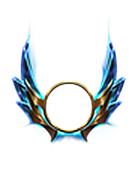
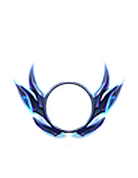
opgg, hotstreak

Changed region(s): [[0.087, 0.1685, 0.9275, 0.8146], [0.1739, 0.7022, 0.2029, 0.7303]]

diff --git a/Beta_App.py b/Beta_App.py
@@ -1,9 +1,12 @@
 import sys
 import os
 import requests
+import webbrowser
+from urllib.parse import quote
 from PyQt6.QtGui import QImage, QPixmap
 
-from helper import RANKS, RANKS_PATH_FADE, RANKS_PATH_BORDER, REGIONS, create_fade_image, create_circular_icon, create_border_image, get_resource_path, save_data, load_data
+from helper import RANKS, RANKS_PATH_FADE, RANKS_PATH_BORDER, REGIONS, \
+    create_fade_image, create_circular_icon, create_border_image, get_resource_path, save_data, load_data, create_hot_streak
 from helper import button_height, button_radius, button_width
 from Beta_Api import get_data
 from Beta_Riot import RiotClient
@@ -75,6 +78,14 @@ class AccountButton(QWidget):
         if hasattr(self, 'delete_cancel_btn') and self.delete_cancel_btn:
             self.delete_cancel_btn.hide()
 
+    def open_opgg(self):
+        try:
+            url = f"{self.base_urls['opgg']}{self.account_name}-{self.tagline}" # quote(self.riot_id)
+            print('review site url: ', url)
+            webbrowser.open(url)
+        except Exception as e:
+            print(f"Failed to open op.gg: {e}")
+
     def mousePressEvent(self, event):
         if event.button() == Qt.MouseButton.RightButton:
             # Toggle delete button visibility on right-click
@@ -93,7 +104,7 @@ class AccountButton(QWidget):
 
         self.setFixedSize(width, height)
 
-        self.account_name_w_tagline = f"{user_data['riot_id']} # {user_data['tagline']}"
+        self.account_name_w_tagline = f"{user_data['riot_id']}#{user_data['tagline']}"
         self.account_name = f"{user_data['riot_id']}"
         self.username = user_data['username']
         self.password = user_data['password']
@@ -101,38 +112,61 @@ class AccountButton(QWidget):
         self.tagline = user_data['tagline']
         self.region = user_data['region']
 
+        self.hotStreak = None
         self.winrate = None
         self.rank = None
         self.iconID = None
-        self.base_urls = {
-            "icon": 'http://raw.communitydragon.org/latest/plugins/rcp-be-lol-game-data/global/default/v1/profile-icons/'
+        # regionStripped = self.region.rstrip("0123456789")
+        regionQuery = {
+            'BR1': 'BR',
+            'EUN1': 'EUNE',
+            'EUW1': 'EUW',
+            'JP1': 'JP',
+            'KR': 'KR',
+            'LA1': 'LA',
+            'LA2': 'LA',
+            'ME1': 'BR',
+            'NA1': 'NA',
+            'OC1': 'OCE',
+            'RU': 'BR',
+            'SG2': 'BR',
+            'TR1': 'BR',
+            'TW2': 'BR',
+            'VN2': 'BR'
         }
 
-        self.border_label = None
+        self.base_urls = {
+            "icon": 'http://raw.communitydragon.org/latest/plugins/rcp-be-lol-game-data/global/default/v1/profile-icons/',
+            "opgg": f'https://op.gg/lol/summoners/{regionQuery[self.region]}/'
+        }
 
         load_dotenv('getenv.env')
         api_key = os.getenv('api_key')
+
+        hotStreak_image_path = 'images/hotStreak.png'
 
         if not api_key:
             raise ValueError("API key not found. Check your .env file.")
 
         ranked_info = get_data(self.riot_id, self.tagline, self.region, api_key)
-        if ranked_info == (None, None, None) or ranked_info == (None, None) or ranked_info == None:
+        if ranked_info == None or ranked_info['tier'] == None:
             ranked_info = 'Unranked'
             image_fade_path = RANKS_PATH_FADE[ranked_info]
             image_border_path = None
-            print(f'{self.account_name} | {ranked_info}')
 
         else:
-            print(f'{self.account_name} | {ranked_info}')
-            print(ranked_info)
-            (rank, self.rank), self.winrate, _ = ranked_info
-            self.iconID = ranked_info[-1]
-            rank = rank.capitalize()
 
-            if rank in RANKS:
-                image_fade_path = RANKS_PATH_FADE[rank]
-                image_border_path = RANKS_PATH_BORDER[rank]
+            self.winrate = f'{ranked_info['winrate']}%  {ranked_info['wins']}W {ranked_info['losses']}L'
+            self.rank = f'{ranked_info['tier']} {ranked_info['rank']} {ranked_info['lp']}LP'
+            self.iconID = ranked_info['iconID']
+            self.hotStreak = ranked_info['hotStreak']
+            tier = ranked_info['tier']
+            tier = tier.capitalize()
+
+            if tier in RANKS:
+                image_fade_path = RANKS_PATH_FADE[tier]
+                image_border_path = RANKS_PATH_BORDER[tier]
+        print(f'{self.account_name} | {ranked_info}\n')
 
         # Load rounded image
         self.fade_pixmap = create_fade_image(image_fade_path, (width, height), radius)
@@ -231,6 +265,22 @@ class AccountButton(QWidget):
             winrate_start_y
         )
 
+        # Rank (Centered)
+        if (self.hotStreak):
+            self.hotStreak_pixmap = create_hot_streak(hotStreak_image_path)
+            self.hotStreak_label = QLabel(self)
+            self.hotStreak_label.setPixmap(self.hotStreak_pixmap)
+            self.hotStreak_label.setGeometry(0, round(button_height // 2.5), self.hotStreak_pixmap.width(), self.hotStreak_pixmap.height())
+            self.hotStreak_label.setStyleSheet('background: transparent;')
+            self.hotStreak_label.setToolTip('Hotstreak')
+            self.hotStreak_label.raise_()
+
+        self.opgg_btn = QPushButton("op.gg", self)
+        self.opgg_btn.setGeometry(button_width - 64, 6, 48, 20)
+        self.opgg_btn.setStyleSheet("background: rgba(0,0,0,0); color: #cfcfcf; border: none; font-size:10px;")
+        self.opgg_btn.setCursor(QCursor(Qt.CursorShape.PointingHandCursor))
+        self.opgg_btn.clicked.connect(self.open_opgg)
+
         # Invisible Clickable Button
         self.button = QPushButton("", self)
         self.button.setGeometry(0, 0, width, height)
@@ -254,9 +304,10 @@ class AccountButton(QWidget):
 
         self.button.setCursor(QCursor(Qt.CursorShape.PointingHandCursor))  # Set cursor to hand
         self.button.clicked.connect(self.on_click)
-
-        if (self.border_label):
-            self.border_label.raise_()
+        # Ensure op.gg button is above the invisible overlay and doesn't steal focus
+        if hasattr(self, 'opgg_btn'):
+            self.opgg_btn.setFocusPolicy(Qt.FocusPolicy.NoFocus)
+            self.opgg_btn.raise_()
 
     def enterEvent(self, event):
         """ Change account label color to white on hover """

diff --git a/helper.py b/helper.py
@@ -1,10 +1,11 @@
 import os
 import json
 import sys
+import io
 
 from pathlib import Path
 from PIL import Image, ImageDraw, ImageEnhance
-from PyQt6.QtGui import QPixmap
+from PyQt6.QtGui import QPixmap, QImage
 
 FADE_SATURAION = 1.5
 BORDER_SATURAION = 1
@@ -107,7 +108,18 @@ def get_resource_path(relative_path):
 
 def create_fade_image(image_path, size, radius):
     """Creates a rounded image with PIL and converts it to QPixmap."""
-    print(image_path)
+    if image_path == None:
+        print(f'ERROR! create_fade_image image_path {image_path}')
+        return
+    
+    if size[0] <= 0 or size[1] <= 0 or size == None:
+        print(f'ERROR! create_fade_image size {size}')
+        return
+
+    if radius < 0 or radius == None:
+        print(f'ERROR! create_fade_image radius {radius}')
+        return
+
     abs_image_path = get_resource_path(image_path)
     img = Image.open(abs_image_path).convert("RGBA")
     img = img.resize(size, Image.LANCZOS)
@@ -131,6 +143,7 @@ def create_fade_image(image_path, size, radius):
 def create_border_image(image_path):
     """Creates a rounded image with PIL and converts it to QPixmap."""
     if image_path == None:
+        print(f'ERROR! create_border_image image_path {image_path}')
         return
     abs_image_path = get_resource_path(image_path)
     img = Image.open(abs_image_path).convert("RGBA")
@@ -146,19 +159,16 @@ def create_border_image(image_path):
     img.save(get_resource_path(RANKS_PATH_BORDER['Unranked']))  # Temporary save for conversion
     return QPixmap(get_resource_path(RANKS_PATH_BORDER['Unranked']))
 
-def create_circular_icon(image_data):
+def create_circular_icon(image_path):
     """
     Takes image data (bytes or file path), creates a circular 50x50 image, and returns a QPixmap.
     """
-    from PIL import Image, ImageDraw
-    from PyQt6.QtGui import QPixmap, QImage
-    import io
 
     # Load image from bytes or file path
-    if isinstance(image_data, bytes):
-        img = Image.open(io.BytesIO(image_data)).convert("RGBA")
+    if isinstance(image_path, bytes):
+        img = Image.open(io.BytesIO(image_path)).convert("RGBA")
     else:
-        img = Image.open(image_data).convert("RGBA")
+        img = Image.open(image_path).convert("RGBA")
 
     img_w = 45
     img_h = 45
@@ -170,6 +180,25 @@ def create_circular_icon(image_data):
     draw = ImageDraw.Draw(mask)
     draw.ellipse((0, 0, img_w, img_h), fill=255)
     img.putalpha(mask)
+
+    # Convert to QPixmap
+    data = io.BytesIO()
+    img.save(data, format='PNG')
+    qimg = QImage.fromData(data.getvalue())
+    return QPixmap.fromImage(qimg)
+
+def create_hot_streak(image_path):
+
+    if image_path == None:
+        print(f'ERROR! create_hot_streak image_path {image_path}')
+        return
+    abs_image_path = get_resource_path(image_path)
+    img = Image.open(abs_image_path).convert("RGBA")
+
+    img_w = 25
+    img_h = 25
+
+    img = img.resize((img_w, img_h), Image.Resampling.BICUBIC)
 
     # Convert to QPixmap
     data = io.BytesIO()

diff --git a/Beta_Api.py b/Beta_Api.py
@@ -29,26 +29,27 @@ class RiotAPI:
                 if entry['queueType'] == 'RANKED_SOLO_5x5':
                     tier, rank, lp = entry['tier'], entry['rank'], entry['leaguePoints']
                     wins, losses = entry['wins'], entry['losses']
+                    hotStreak = entry['hotStreak']
                     winrate = round((wins / (wins + losses)) * 100, 1)
-                    return (tier, rank, lp), (wins, losses, winrate)
+                    return {
+                        'tier': tier,
+                        'rank': rank,
+                        'lp': lp,
+                        'wins': wins,
+                        'losses': losses,
+                        'winrate': winrate,
+                        'hotStreak': hotStreak,
+                        }
             return None
         else:
             print(f"Error {response.status_code}: {response.json()}")
             return None
 
     def get_icon_id(self, puuid):
-        # # Step 1: Account info by PUUID
-        # account_url = f"{self.base_urls['account']}/riot/account/v1/accounts/by-puuid/{puuid}"
-        # account_resp = requests.get(account_url, headers=self.headers)
-        # account_data = account_resp.json()
-        # print("Account data:", account_data)
-        # # response = requests.get(url, headers=self.headers)
-        # # return self._handle_response(response, "puuid")
         url = f"{self.base_urls['summoner']}{puuid}" 
         response = requests.get(url, headers=self.headers) 
-        data = response.json() 
-        iconID = data.get('profileIconId')
-        return iconID
+        # iconID = data.get('profileIconId')
+        return self._handle_response(response, 'profileIconId')
 
     @staticmethod
     def _handle_response(response, key):
@@ -58,25 +59,20 @@ class RiotAPI:
         return None
 
     def get_player_data(self, game_name: str, tagline: str):
+
         puuid = self.get_puuid(game_name, tagline)
         if not puuid:
             print("Could not retrieve PUUID.")
             return None
+
         iconID = self.get_icon_id(puuid)
         ranked_info = self.get_ranked_data(puuid)
-        if ranked_info:
-            rank, winrate = ranked_info
-            tier, rank, lp = rank
-            wins, losses, winrate = winrate
 
-            rank = tier, f"{tier} {rank} - {lp} LP"
-            winrate = f"{wins}W/{losses}L - {winrate}% WR"
+        ranked_info.update({
+            'iconID': iconID
+        })
 
-        else:
-            winrate = None
-            rank = None
-
-        return rank, winrate, iconID
+        return ranked_info
 
 
 def get_data(game_name, tagline, region, api_key):
@@ -93,5 +89,5 @@ if __name__ == "__main__":
         raise ValueError("API key not found.")
 
     print()
-    data = get_data('Lando Verstappen', '1814', 'EUW1', api_key)
+    data = get_data('TwTv RiverSanzu', '0000', 'EUN1', api_key)
     print(data)